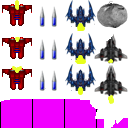
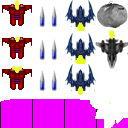
AI+ MENU

Changed region(s): [[0.7188, 0.2188, 1.0, 0.8125]]

diff --git a/src/ser/main/Enemy2.java b/src/ser/main/Enemy2.java
@@ -7,7 +7,7 @@ import java.util.Random;
 import ser.main.classes.EntityA;
 import ser.main.classes.EntityB;
 
-public class Enemy extends GameObject implements EntityB {
+public class Enemy2 extends GameObject implements EntityB {
 
 	private Texture tex;
 	Random r = new Random();
@@ -18,7 +18,7 @@ public class Enemy extends GameObject implements EntityB {
 	private int speed = r.nextInt(3) + 1;
 	private Player p;
 	
-	public Enemy(double x, double y, Texture tex, Controller c, Game game) {
+	public Enemy2(double x, double y, Texture tex, Controller c, Game game) {
 		super(x, y);
 		this.tex = tex;
 		this.c = c;
@@ -28,7 +28,6 @@ public class Enemy extends GameObject implements EntityB {
 
 	public void tick() {
 		y += speed;
-		setX(p.getX());
 
 		if (y > Game.HEIGHT * Game.SCALE) {
 			x = p.getX();
@@ -49,7 +48,7 @@ public class Enemy extends GameObject implements EntityB {
 	}
 
 	public void render(Graphics g) {
-		g.drawImage(tex.enemy, (int) x, (int) y, null);
+		g.drawImage(tex.enemy2, (int) x, (int) y, null);
 	}
 
 	public Rectangle getBounds() {
@@ -61,24 +60,11 @@ public class Enemy extends GameObject implements EntityB {
 	}
 
 	public void setY(double y) {
-		this.y = y*0.8;
+		this.y = y;
 	}
 
 	public double getX() {
 		return x;
-	}
-	
-	public void setX(double x) {
-		if(x<this.x)
-		{
-		this.x -= 0.5;
-		}
-		else
-		{
-			this.x += 0.5;
-	
-		}
-		
 	}
 
 }

diff --git a/src/ser/main/Texture.java b/src/ser/main/Texture.java
@@ -4,7 +4,7 @@ import java.awt.image.BufferedImage;
 
 public class Texture {
 
-	public BufferedImage player, missile, enemy, asteroid;
+	public BufferedImage player, missile, enemy, asteroid, enemy2;
 
 	private SpriteSheet ss;
 	Game game;
@@ -19,7 +19,7 @@ public class Texture {
 		missile = ss.grabImage(2, 1, 32, 32);
 		asteroid = ss.grabImage(4, 1, 32, 32);
 		enemy = ss.grabImage(1, 1, 32, 32);
+		enemy2 = ss.grabImage(4, 2, 32, 32);
 		player = game.getPlayerBuffer();
-
 	}
 }

diff --git a/src/ser/main/Game.java b/src/ser/main/Game.java
@@ -36,7 +36,7 @@ public class Game extends Canvas implements Runnable {
 
 	private boolean is_shooting = false;
 
-	private int enemy_count = 10;
+	private int enemy_count = 16;
 	private int enemy_killed = 0;
 	private Sound sound;
 	

diff --git a/src/ser/main/Sound.java b/src/ser/main/Sound.java
@@ -1,7 +1,6 @@
 package ser.main;
 import java.applet.Applet;
 import java.applet.AudioClip;
-import java.net.MalformedURLException;
 import java.net.URL;
 
 public class Sound {
